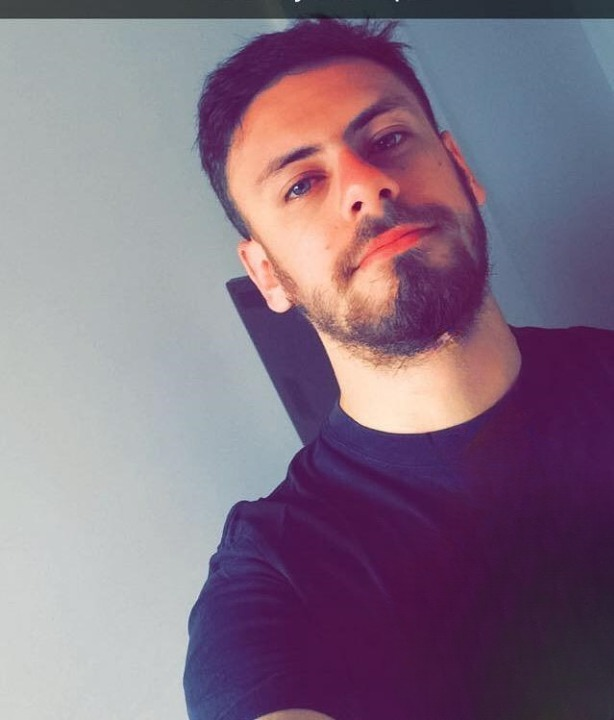
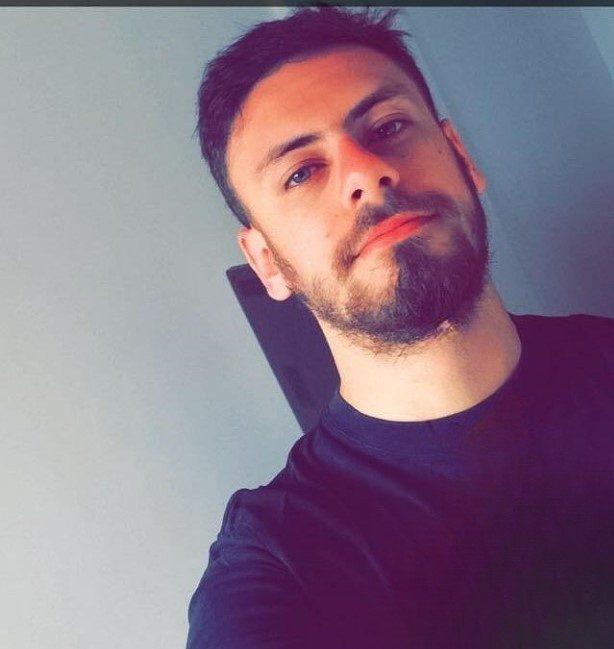
about terminado + transiciones de dark mode

diff --git a/client/src/components/About Us/AboutUs.jsx b/client/src/components/About Us/AboutUs.jsx
@@ -7,7 +7,7 @@ import Seba from "../../utils/AboutUs/Seba.jpg";
 import Gio from "../../utils/AboutUs/Gio.jpg";
 import Jose from "../../utils/AboutUs/jose.jpeg";
 import Sol from "../../utils/AboutUs/Sol.jpg";
-import wwwhere from "../../utils/wwwhere.png";
+import Thomas from "../../utils/AboutUs/Thomas.png"
 import styles from "../About Us/AboutUs.module.css";
 import { useSelector } from "react-redux";
 
@@ -25,7 +25,7 @@ export default function AboutUs() {
     {
         name: "Ignacio Luna",
         image: Igna,
-        linkedin: "",
+        linkedin: "https://www.linkedin.com/in/ignaluna/",
         github: "https://github.com/ignaluna",
     },
     {
@@ -43,13 +43,13 @@ export default function AboutUs() {
     {
         name: "Jose Canelo",
         image: Jose,
-        linkedin: "",
+        linkedin: "https://www.linkedin.com/in/jose-canelo-suarez-06ba71223/",
         github: "https://github.com/Josecanelo",
     },
     {
         name: "Thomas Rojas",
-        image: wwwhere,
-        linkedin: "https://www.linkedin.com/in/jose-canelo-suarez-06ba71223/",
+        image: Thomas,
+        linkedin: "https://www.linkedin.com/in/thomas-rojas-719a1a258",
         github: "https://github.com/ThomRojas",
     },
     {
@@ -61,7 +61,7 @@ export default function AboutUs() {
     {
         name: "Sebastian Florez ",
         image: Seba,
-        linkedin: "",
+        linkedin: "https://www.linkedin.com/in/sebasfj",
         github: "https://github.com/SebasFj",
     },
     ]
@@ -80,10 +80,10 @@ export default function AboutUs() {
                             <h4>FullStack Developer </h4>
                             <div className={styles.linksContainer}>
                                 <a href={dev.github} >
-                                    <svg className={styles.gitHub} xmlns="http://www.w3.org/2000/svg" width="24" height="24" viewBox="0 0 24 24"><path d="M12 0c-6.626 0-12 5.373-12 12 0 5.302 3.438 9.8 8.207 11.387.599.111.793-.261.793-.577v-2.234c-3.338.726-4.033-1.416-4.033-1.416-.546-1.387-1.333-1.756-1.333-1.756-1.089-.745.083-.729.083-.729 1.205.084 1.839 1.237 1.839 1.237 1.07 1.834 2.807 1.304 3.492.997.107-.775.418-1.305.762-1.604-2.665-.305-5.467-1.334-5.467-5.931 0-1.311.469-2.381 1.236-3.221-.124-.303-.535-1.524.117-3.176 0 0 1.008-.322 3.301 1.23.957-.266 1.983-.399 3.003-.404 1.02.005 2.047.138 3.006.404 2.291-1.552 3.297-1.23 3.297-1.23.653 1.653.242 2.874.118 3.176.77.84 1.235 1.911 1.235 3.221 0 4.609-2.807 5.624-5.479 5.921.43.372.823 1.102.823 2.222v3.293c0 .319.192.694.801.576 4.765-1.589 8.199-6.086 8.199-11.386 0-6.627-5.373-12-12-12z" /></svg>
+                                    <svg className={styles.gitHub} xmlns="http://www.w3.org/2000/svg" width="30" height="30" viewBox="0 0 24 24"><path d="M12 0c-6.626 0-12 5.373-12 12 0 5.302 3.438 9.8 8.207 11.387.599.111.793-.261.793-.577v-2.234c-3.338.726-4.033-1.416-4.033-1.416-.546-1.387-1.333-1.756-1.333-1.756-1.089-.745.083-.729.083-.729 1.205.084 1.839 1.237 1.839 1.237 1.07 1.834 2.807 1.304 3.492.997.107-.775.418-1.305.762-1.604-2.665-.305-5.467-1.334-5.467-5.931 0-1.311.469-2.381 1.236-3.221-.124-.303-.535-1.524.117-3.176 0 0 1.008-.322 3.301 1.23.957-.266 1.983-.399 3.003-.404 1.02.005 2.047.138 3.006.404 2.291-1.552 3.297-1.23 3.297-1.23.653 1.653.242 2.874.118 3.176.77.84 1.235 1.911 1.235 3.221 0 4.609-2.807 5.624-5.479 5.921.43.372.823 1.102.823 2.222v3.293c0 .319.192.694.801.576 4.765-1.589 8.199-6.086 8.199-11.386 0-6.627-5.373-12-12-12z" /></svg>
                                 </a>
                                 <a href={dev.linkedin}>
-                                    <svg className={styles.linkedin} xmlns="http://www.w3.org/2000/svg" width="24" height="24" viewBox="0 0 24 24"><path d="M12 0c-6.627 0-12 5.373-12 12s5.373 12 12 12 12-5.373 12-12-5.373-12-12-12zm-2 16h-2v-6h2v6zm-1-6.891c-.607 0-1.1-.496-1.1-1.109 0-.612.492-1.109 1.1-1.109s1.1.497 1.1 1.109c0 .613-.493 1.109-1.1 1.109zm8 6.891h-1.998v-2.861c0-1.881-2.002-1.722-2.002 0v2.861h-2v-6h2v1.093c.872-1.616 4-1.736 4 1.548v3.359z" /></svg>
+                                    <svg className={styles.linkedin} xmlns="http://www.w3.org/2000/svg" width="30" height="30" viewBox="0 0 24 24"><path d="M12 0c-6.627 0-12 5.373-12 12s5.373 12 12 12 12-5.373 12-12-5.373-12-12-12zm-2 16h-2v-6h2v6zm-1-6.891c-.607 0-1.1-.496-1.1-1.109 0-.612.492-1.109 1.1-1.109s1.1.497 1.1 1.109c0 .613-.493 1.109-1.1 1.109zm8 6.891h-1.998v-2.861c0-1.881-2.002-1.722-2.002 0v2.861h-2v-6h2v1.093c.872-1.616 4-1.736 4 1.548v3.359z" /></svg>
                                 </a>
                             </div>
                         </div>

diff --git a/client/src/components/Card/card.module.css b/client/src/components/Card/card.module.css
@@ -1,21 +1,22 @@
-.places{
+.places {
     display: inline-flex;
     align-items: center;
     justify-content: center;
-    margin-top:50px;
-    margin-bottom:50px;
+    margin-top: 50px;
+    margin-bottom: 50px;
     margin-left: 25px;
     margin-right: 25px;
     text-decoration: none;
 }
-@media (max-width: 550px){
-    .places{
+
+@media (max-width: 550px) {
+    .places {
         display: flex;
         flex-direction: row;
-       margin: 30px 13px 15px 13px;
+        margin: 30px 13px 15px 13px;
     }
-  }
-  
+}
+
 
 .place {
     height: fit-content;
@@ -23,48 +24,52 @@
     background-color: #fcf9ebaa;
     background-size: contain;
     border-radius: 11px;
-    color:black;
+    color: black;
     font-family: 'Cambay', sans-serif;
     font-style: normal;
     transition: all 0.5s ease;
     box-shadow: 2px 2px 9px 0px rgba(0, 0, 0, 0.28);
 }
+
 .place:hover {
     transform: scale(1.09) rotate(2deg);
     cursor: pointer;
-  }
+}
 
-  .placedisabled {
+.placedisabled {
     height: 46vh;
     width: 25rem;
     background-color: #70707052;
     background-size: contain;
     border-radius: 11px;
-    color:rgba(255, 255, 255, 0.593);
+    color: rgba(255, 255, 255, 0.593);
     font-family: 'Cambay', sans-serif;
     font-style: normal;
     transition: all 0.5s ease;
     box-shadow: 2px 2px 9px 0px rgba(102, 102, 102, 0.28);
 }
-  
 
-.logo{
+
+.logo {
     border-radius: 11px 11px 0px 0px;
     height: 35vh;
     width: 100%;
     object-fit: cover;
 }
-.logodisabled{
+
+.logodisabled {
     border-radius: 11px 11px 0px 0px;
     height: 35vh;
     width: 100%;
     object-fit: cover;
-    -webkit-filter: grayscale(100%); /* Safari 6.0 - 9.0 */
+    -webkit-filter: grayscale(100%);
+    /* Safari 6.0 - 9.0 */
     filter: grayscale(100%);
-  
+
 }
-.textContainer{
-    display:flex;
+
+.textContainer {
+    display: flex;
     flex-direction: row;
     justify-content: space-between;
     text-decoration: none;
@@ -77,33 +82,36 @@
     padding-bottom: 10px;
     height: 50px;
 }
-.text h3{
+
+.text h3 {
     margin-bottom: 18px;
 }
 
-.text h4{
+.text h4 {
     margin: 0px;
 }
 
 
-@media (max-width: 550px){
-    .text h3{
+@media (max-width: 550px) {
+    .text h3 {
         margin-bottom: 10px;
     }
-  }
-  
+}
+
 
 .numbersInfo {
     text-align: end;
     padding-right: 10px;
     padding-bottom: 10px;
 }
-.numbersInfo h4{
+
+.numbersInfo h4 {
     margin: 0px;
     margin-top: 18px;
 }
-@media (max-width: 550px){
-    .numbersInfo h4{
-        margin-top: 13px;  
+
+@media (max-width: 550px) {
+    .numbersInfo h4 {
+        margin-top: 13px;
     }
-  }
+}

diff --git a/client/src/components/About Us/AboutUs.module.css b/client/src/components/About Us/AboutUs.module.css
@@ -79,7 +79,7 @@
 .gitHub:hover {
   cursor: pointer;
   fill: #6e5494;
-
+  transform: scale(1.1);
 }
 
 .linkedin {
@@ -88,12 +88,14 @@
 
 .linkedin:hover {
   fill: #0072b1;
+  transform: scale(1.1);
 }
 
 /* -------------------------------------------Dark Mode ----------------------------------------------- */
 .mainContainerDark {
   background-color: #2A2A2B;
-  color:#FCF9EB;
+  color: #FCF9EB;
+  transition: all 0.5s ease;
 }
 
 .title {
@@ -103,6 +105,7 @@
 .nameDark {
   color: #c8aae3;
 }
+
 .eachDark {
   height: fit-content;
   width: 25rem;

diff --git a/client/src/components/Home/home.module.css b/client/src/components/Home/home.module.css
@@ -89,6 +89,7 @@
   background-image: url(../../utils/Home2.png);
   background-repeat: repeat-y;
   height: 100%;
+  transition: all 0.5s ease;
 }
 
 .infodark{
@@ -97,6 +98,7 @@
   background-color: #2A2A2B;
   height: 100%;
   width: 100%;
+  transition: all 0.5s ease;
 }
 
 .filtercontainer{
@@ -168,7 +170,7 @@
   border-radius: 1em;
   width: 26em;
   border-style: none;
-  background: #434343;
+  background: #2a2a2b;
   border-style: solid;
   border-width: 1px;
   border-color: #8b8b8b;

diff --git a/client/src/components/Details/details.module.css b/client/src/components/Details/details.module.css
@@ -1,6 +1,7 @@
 .mainContainer {
     background-color: #FCF9EB;
     height: 100vh;
+    transition: all 0.5s ease;
 }
 
 .container {
@@ -275,6 +276,7 @@
     align-items: left;
     text-align: left;
     width: 100%;
+    transition: all 0.5s ease;
 }
 
 .fondoVioleta>a {
@@ -285,6 +287,7 @@
 .mainContainerDark {
     background-color: #2A2A2B;
     height: 100vh;
+    transition: all 0.5s ease;
 }
 @media (max-width: 760px){
     .mainContainerDark{

diff --git a/client/src/components/Navbar/navbar.module.css b/client/src/components/Navbar/navbar.module.css
@@ -271,7 +271,7 @@
     overflow: hidden;
     z-index: 1;
     font-family: inherit;
-    border-radius: 15px;
+    border-radius: 11px;
     margin-top: 10px;
    }
    
@@ -282,7 +282,7 @@
     top: 0;
     width: 100%;
     height: 100%;
-    background-color: rgba(243, 3, 3, 0.863);
+    background-color: #5A268C;
     transform: translateX(-100%);
     transition: all .3s;
     z-index: -1;

diff --git a/client/src/components/Profile/profile.module.css b/client/src/components/Profile/profile.module.css
@@ -3,6 +3,7 @@
   background-repeat: no-repeat;
   height: 90vh;
   width: 100%;
+  transition: all 0.5s ease;
   /* background-position-y: 184px;
   padding-bottom: 40px; */
 }
@@ -280,6 +281,7 @@
   background-repeat:repeat-y;
   height: 100vh;
   width: 100%;
+  transition: all 0.5s ease;
   /* background-position-y: 184px;
   padding-bottom: 40px; */
   
